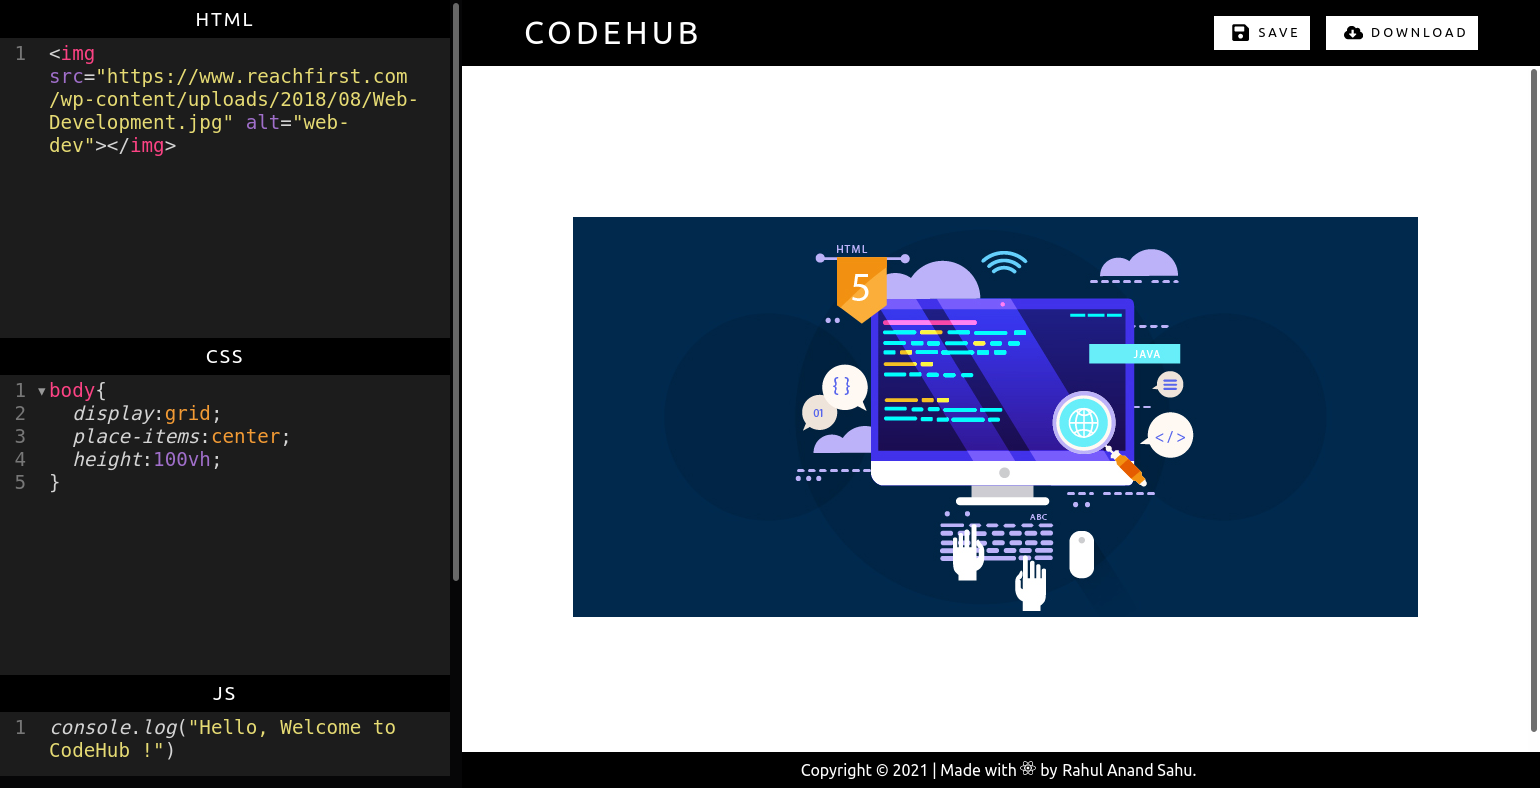
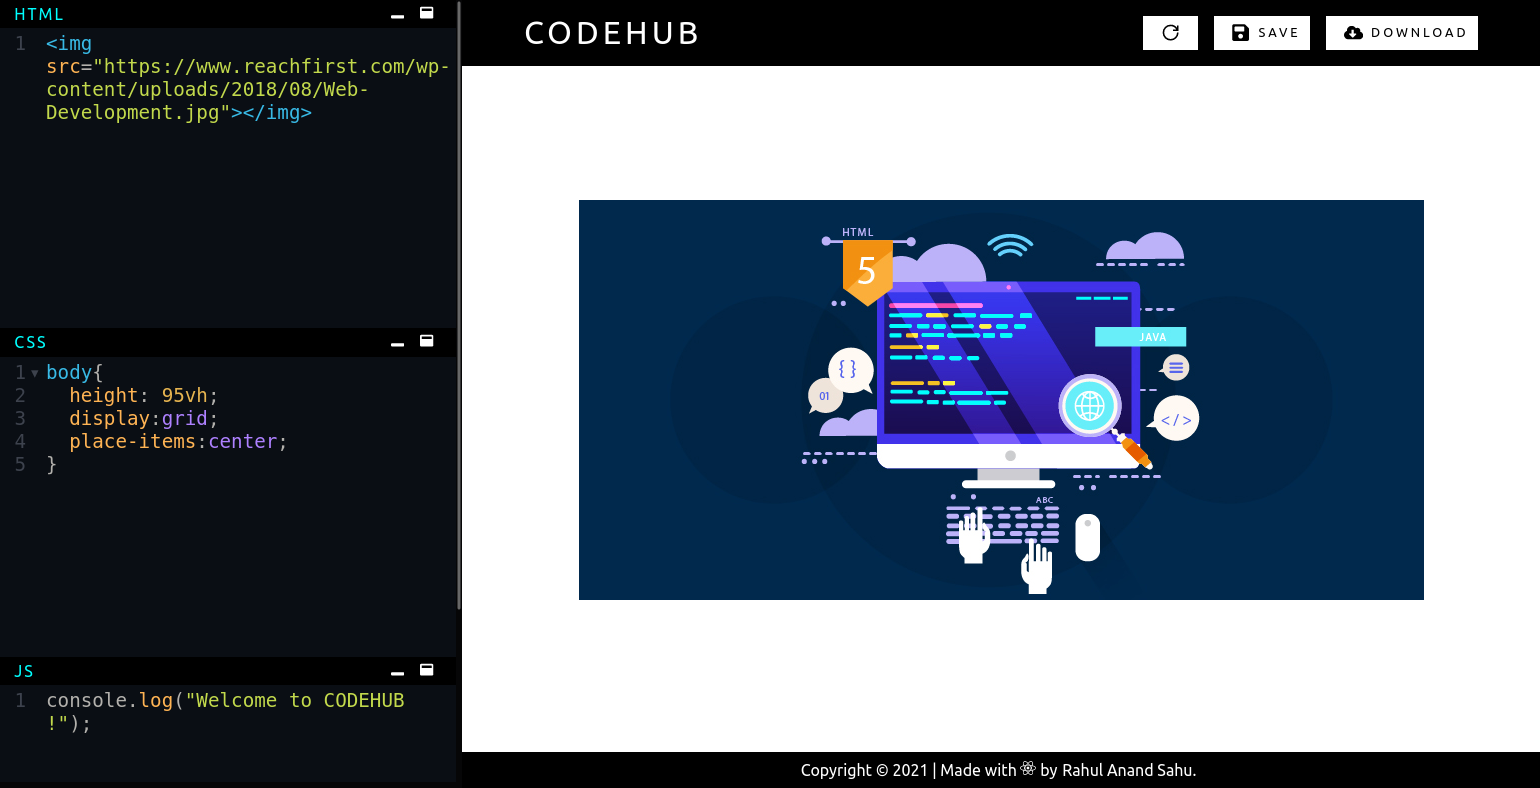
fixed maximize button functionality, edited README.md tempelate.

diff --git a/README.md b/README.md
@@ -2,12 +2,17 @@
 
 ![Page Thumbnail](./src/images/page.png)
 
-### This is an online code editor made for general purpose web development. 
+### This is an online code editor integrated with HTML, CSS , & Javascript utilities specifically ment for general purpose web development . 
 
 
-# FEATURES : 
+## ⚠ **This web appication only works in Desktop/ Laptop similar devices.**
+
+**If you are using mobile browser or tablet: CodeEditor will display incompatability warning.**
+
+# Codehub Features : 
     * ✨ CODE HIGHLIGHT
     * 💡 AUTOCLOSE TAGS 
     * 💾 SAVE CODE (SESSION WISE)
     * 📥 DOWNLOAD CODE as HTML
     * 📱 SIDE-BY-SIDE PREVIEW
+    * 🔄 CODE RESET
